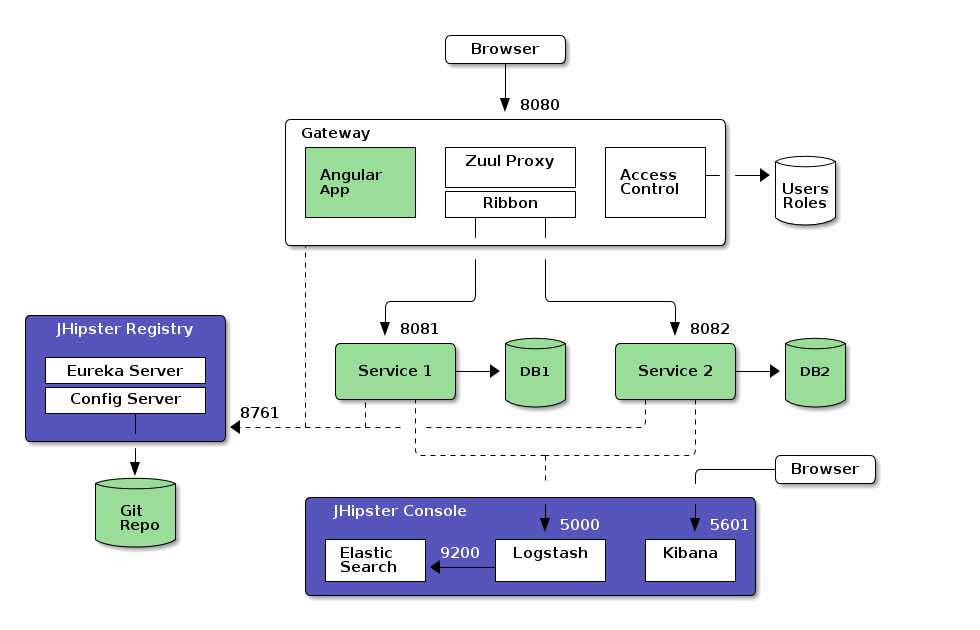
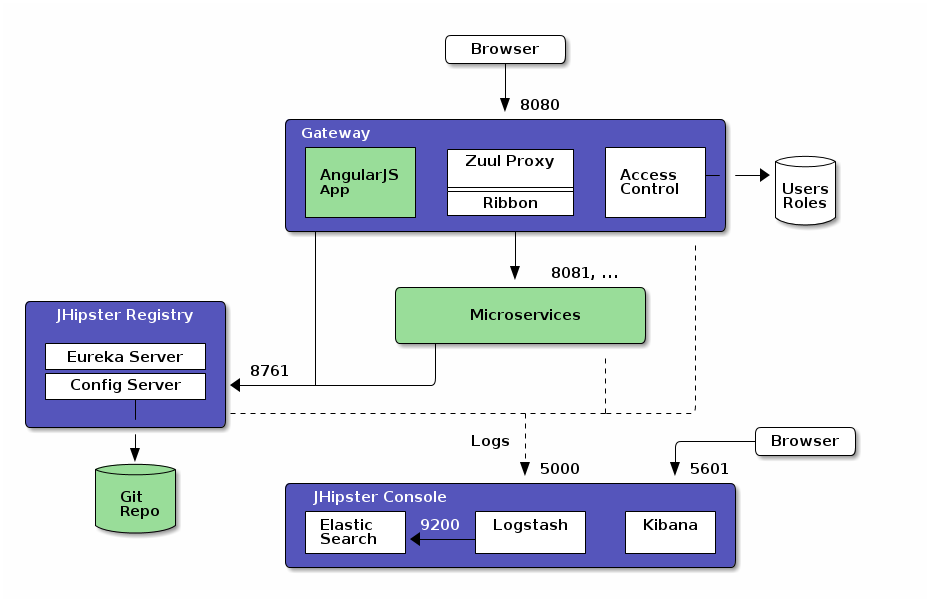
Keep only one diagram Copy doc from registry Add few lines about Ribbon

diff --git a/pages/microservices_architecture.md b/pages/microservices_architecture.md
@@ -13,21 +13,48 @@ sitemap:
 
 The JHipster microservices architecture works in the following way:
 
- * The [JHipster Registry] is a runtime application, using the usual JHipster structure, on which all applications registers.
+ * The [JHipster Registry](https://github.com/jhipster/jhipster-registry) is a runtime application, using the usual JHipster structure, on which all applications registers and get their configuration from.
  * A gateway is a JHipster-generated application (using application type microservice gateway when you generate it) that handles Web traffic, and serves an AngularJS application. There can be several different gateways, if needed.
  * Microservices are JHipster-generated applications (using application type microservice application when you generate them), that handle REST requests. They are stateless, and several instances of them can be launched in parallel to handle heavy loads.
+ * The [JHipster Console](https://github.com/jhipster/jhipster-console) is a monitoring & alerting console, based on the ELK stack
+ 
+In the diagram below, the green components are specific to your application and the blue components provide its underlying infrastructure.
 
 ![Diagram]({{ site.url }}/images/microservices_architecture_1.png)
 
-### JHipster Registry
+## HTTP requests routing using the gateway
 
-https://github.com/jhipster/jhipster-registry/blob/master/README.md
+When the gateways and the microservices are launched, they will register themselves in the registry (using the `eureka.client.serviceUrl.defaultZone` key in the `src/main/resources/config/application.yml` file.
 
-### JHipster Console
+The gateway will automatically proxy all requests to the microservices, using their application name: for example, when microservices `app1` is registered, it is available on the gateway on the `/app1` URL.
 
-JHipster monitoring & alerting console, based on ELK
+For example, if your gateway is running on `localhost:8080`, you could point to [http://localhost:8080/app1/rest/foos](http://localhost:8080/app1/rest/foos) to
+get the `foos` resource served by microservice `app1`. If you're trying to do this with your Web browser, don't forget REST resources are secured by default in JHipster, so you need to send the correct JWT header (see the point on security below), or remove the security on those URLs in the gateway's `SecurityConfiguration` class.
 
-https://github.com/jhipster/jhipster-console/blob/master/README.md
+If there are several instances of same service running, the gateway will load balance requests between these instances through [Netflix Ribbon](https://github.com/Netflix/ribbon).
 
+## Application configuration with the JHipster Registry
 
-[JHipster Registry](https://github.com/jhipster/jhipster-registry)
+The JHipster Registry is also a [Spring Config Server](http://cloud.spring.io/spring-cloud-config/spring-cloud-config.html): when applications are launched they will first connect to the JHipster Registry to get their configuration. This is true for both gateways and microservices.
+
+This configuration is a Spring Boot configuration, like the one found in the JHipster `application-*.yml` files, but it is stored in a central server, so it is easier to manage.
+
+Two kind of configurations are available:
+
+- A `native` configuration, which is used by default in development (using the JHipster `dev` profile), and which uses the local filesystem.
+- A `Git` configuration, which is used by default in production (using the JHipster `prod` profile), and which stores the configuration in a Git server. This allows to tag, branch or rollback configurations using the usual Git tools, which are very powerful in this use-case.
+
+As the Gateway routes are configured using Spring Boot, they can also be managed using the Spring Config Server, for example you could map application `app1-v1` to the `/app1` URL in your `v1` branch, and map application `app1-v2` to the `/app1` URL in your `v2` branch. This is a good way of upgrading microservices without any downtime for end-users.
+
+## Security considerations
+
+In a microservices architecture, we use JWT (JSON Web Token) for securing our applications. Tokens are generated by the gateway, and sent to the underlying microservices: as they share a common secret key, microservices are able to validate the token, and authenticate users using that token.
+
+Those tokens are self-sufficient: they have both authentication and authorization information, so microservices do not need to query a database or an external system. This is important in order to ensure a scalable architecture.
+
+For security to work, you need to exchange the JWT secret token between all your applications.
+
+- For each application the default token is unique, and generated by JHipster. It is stored in the `.yo-rc.json` file.
+- Tokens are configured with the `jhipster.security.authentication.jwt.secret` key in the `src/main/resources/config/application.yml` file.
+- To share this key between all your applications, copy the key from your gateway to all the microservices, or share it using the Spring Config Server.
+- A good practice is to have a different key in development and production.
